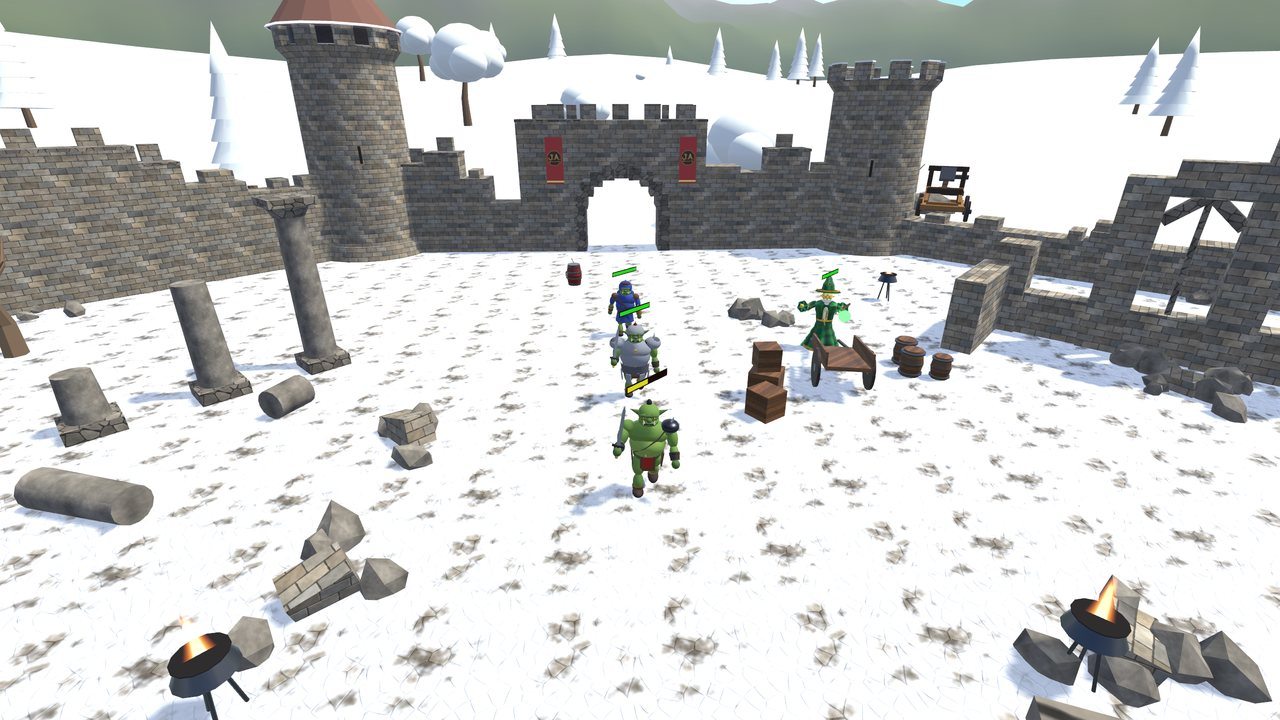
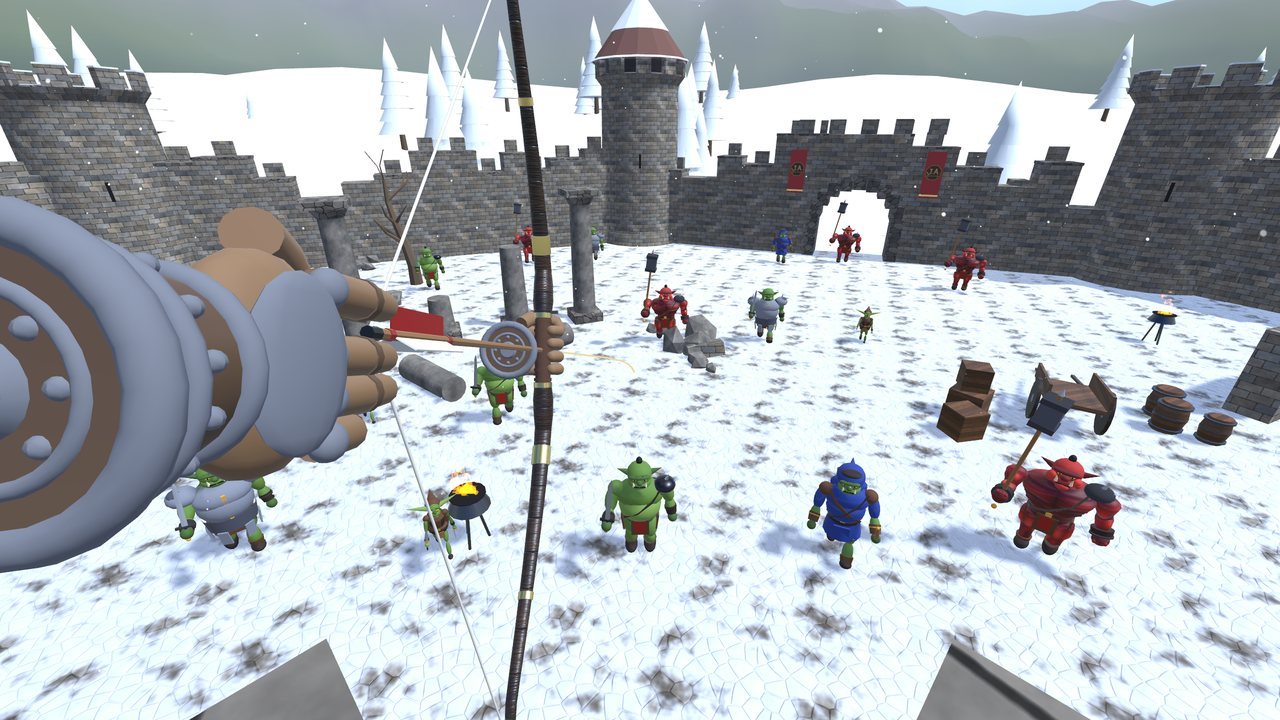
Jack Arrow: nuove immagini (esplosione, drago, neve)

diff --git a/jackarrow/index.html b/jackarrow/index.html
@@ -76,9 +76,9 @@
 
       <div class="shots">
         <img src="assets/shot6.jpg" width="1280" height="720" loading="lazy" alt="An orc archer taking aim">
-        <img src="assets/shot2.jpg" width="1280" height="720" loading="lazy" alt="An explosion among the orcs at night">
-        <img src="assets/shot3.jpg" width="1280" height="720" loading="lazy" alt="Orcs crossing the courtyard">
-        <img src="assets/shot4.jpg" width="1280" height="720" loading="lazy" alt="The castle in the snow">
+        <img src="assets/shot2.jpg?v=2" width="1280" height="720" loading="lazy" alt="An explosion sends the enemies flying">
+        <img src="assets/shot3.jpg?v=2" width="1280" height="720" loading="lazy" alt="The dragon breathing fire">
+        <img src="assets/shot4.jpg?v=2" width="1280" height="720" loading="lazy" alt="The bow drawn in the snow">
       </div>
 
       <h2>What you need</h2>
@@ -121,9 +121,9 @@
 
       <div class="shots">
         <img src="assets/shot6.jpg" width="1280" height="720" loading="lazy" alt="Un orco arciere prende la mira">
-        <img src="assets/shot2.jpg" width="1280" height="720" loading="lazy" alt="Un'esplosione tra gli orchi di notte">
-        <img src="assets/shot3.jpg" width="1280" height="720" loading="lazy" alt="Gli orchi attraversano il cortile">
-        <img src="assets/shot4.jpg" width="1280" height="720" loading="lazy" alt="Il castello nella neve">
+        <img src="assets/shot2.jpg?v=2" width="1280" height="720" loading="lazy" alt="Un'esplosione fa volare i nemici">
+        <img src="assets/shot3.jpg?v=2" width="1280" height="720" loading="lazy" alt="Il drago sputa fuoco">
+        <img src="assets/shot4.jpg?v=2" width="1280" height="720" loading="lazy" alt="L'arco teso nella neve">
       </div>
 
       <h2>Cosa serve</h2>
